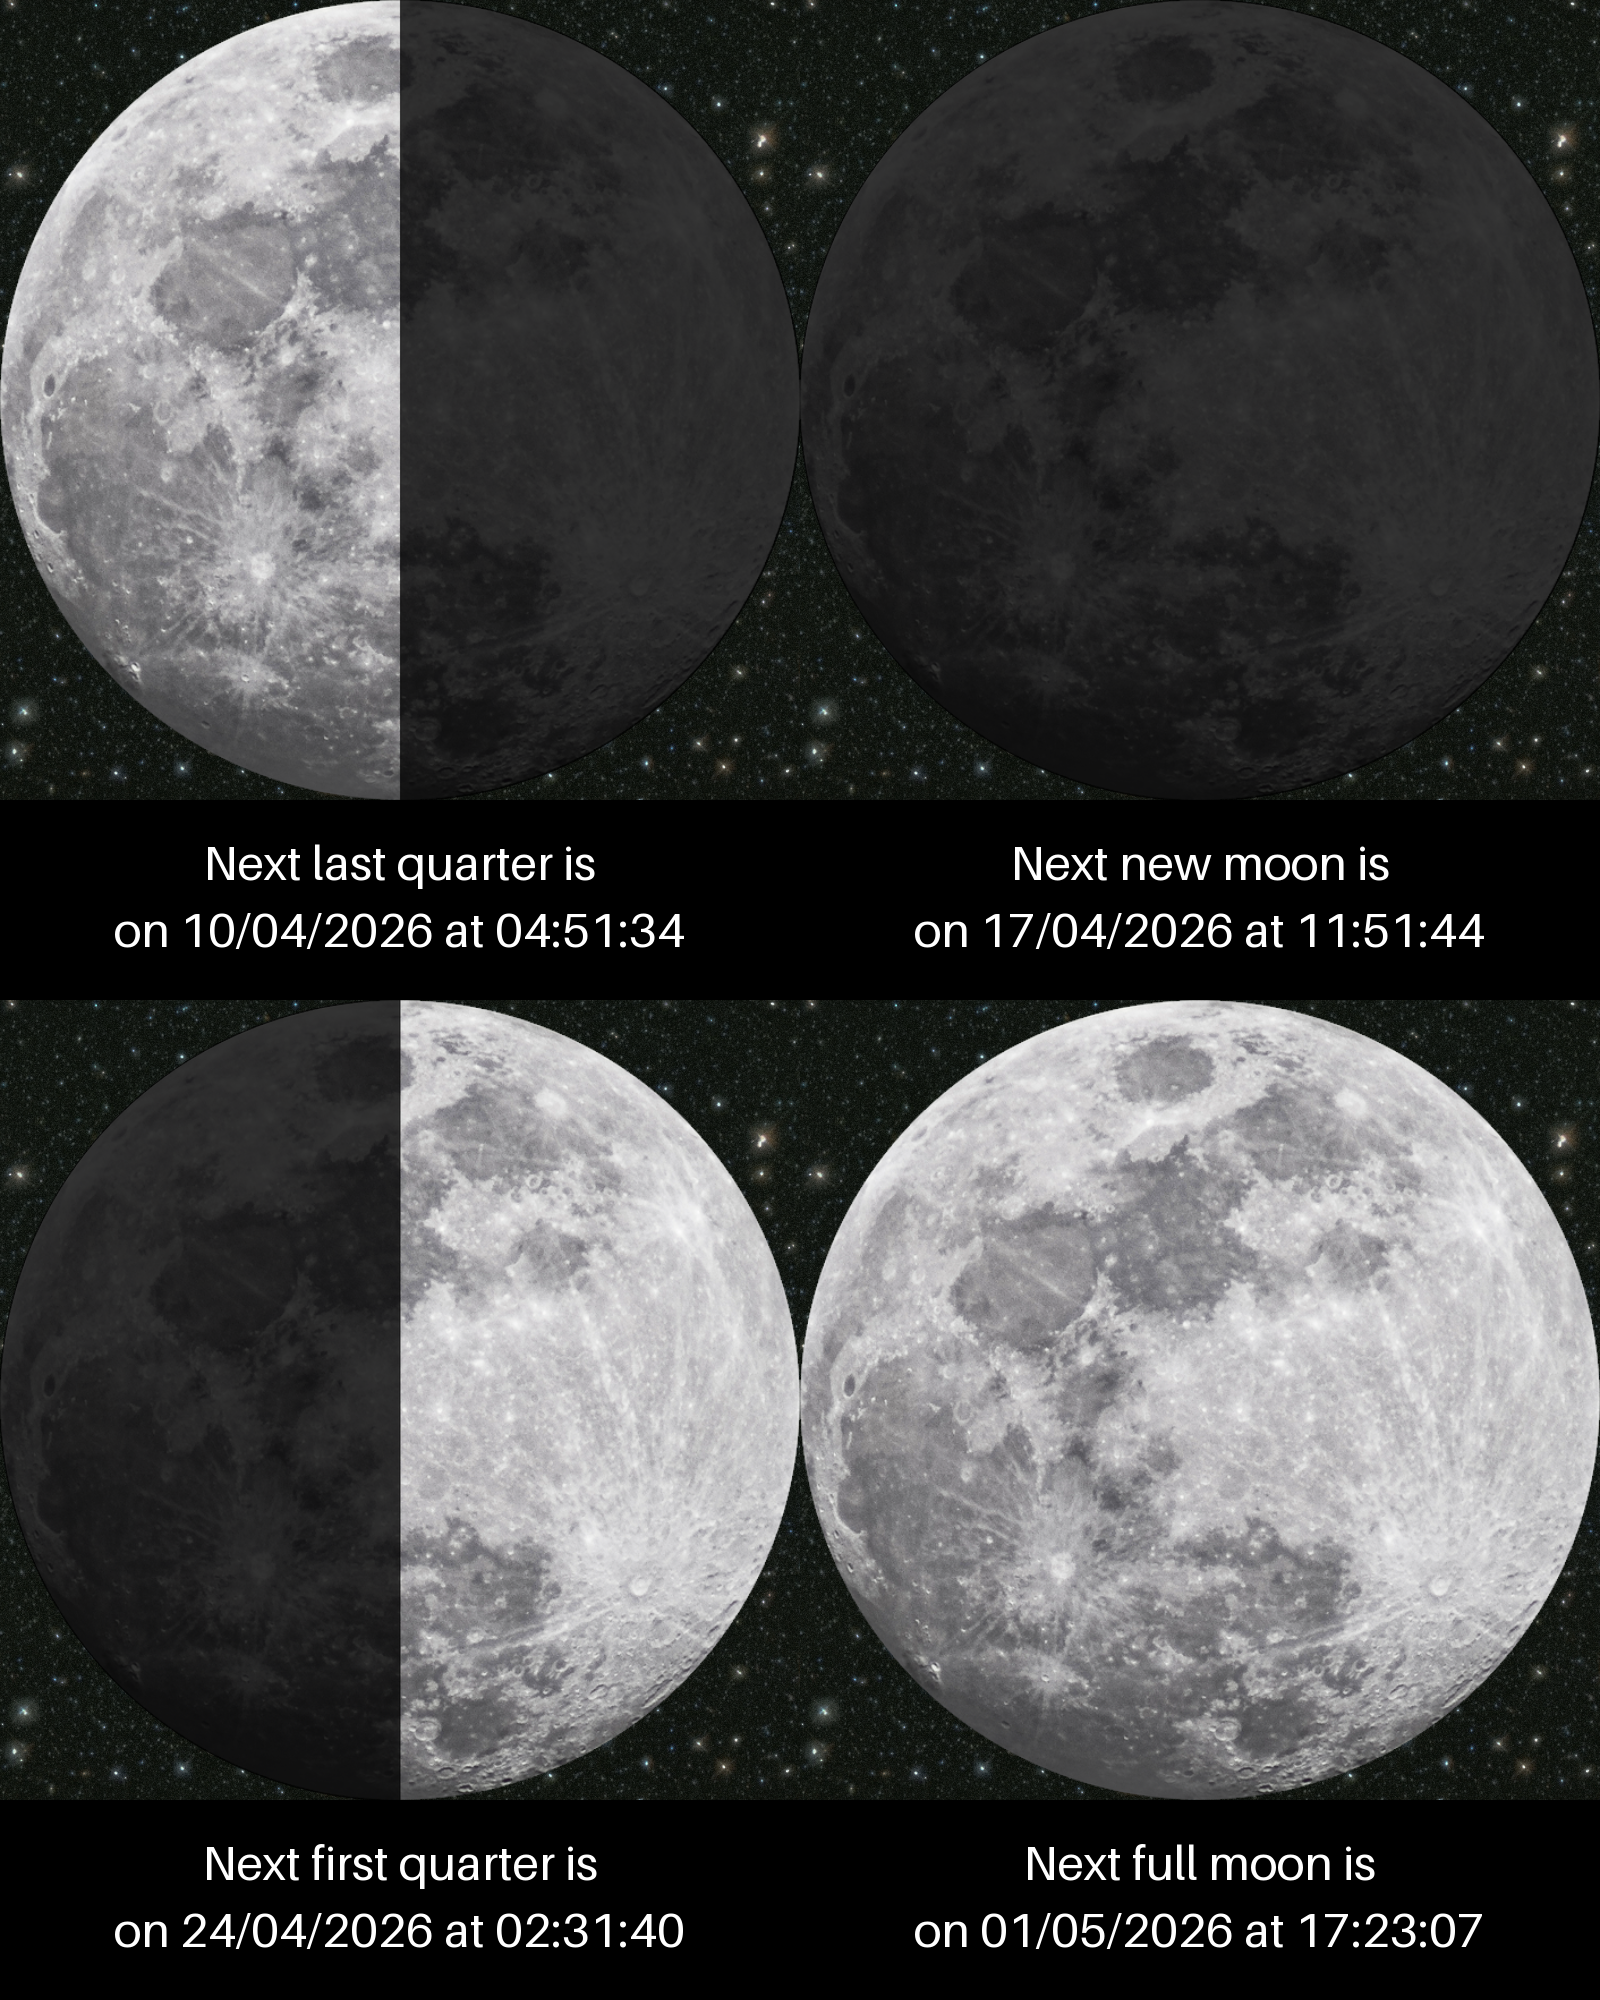
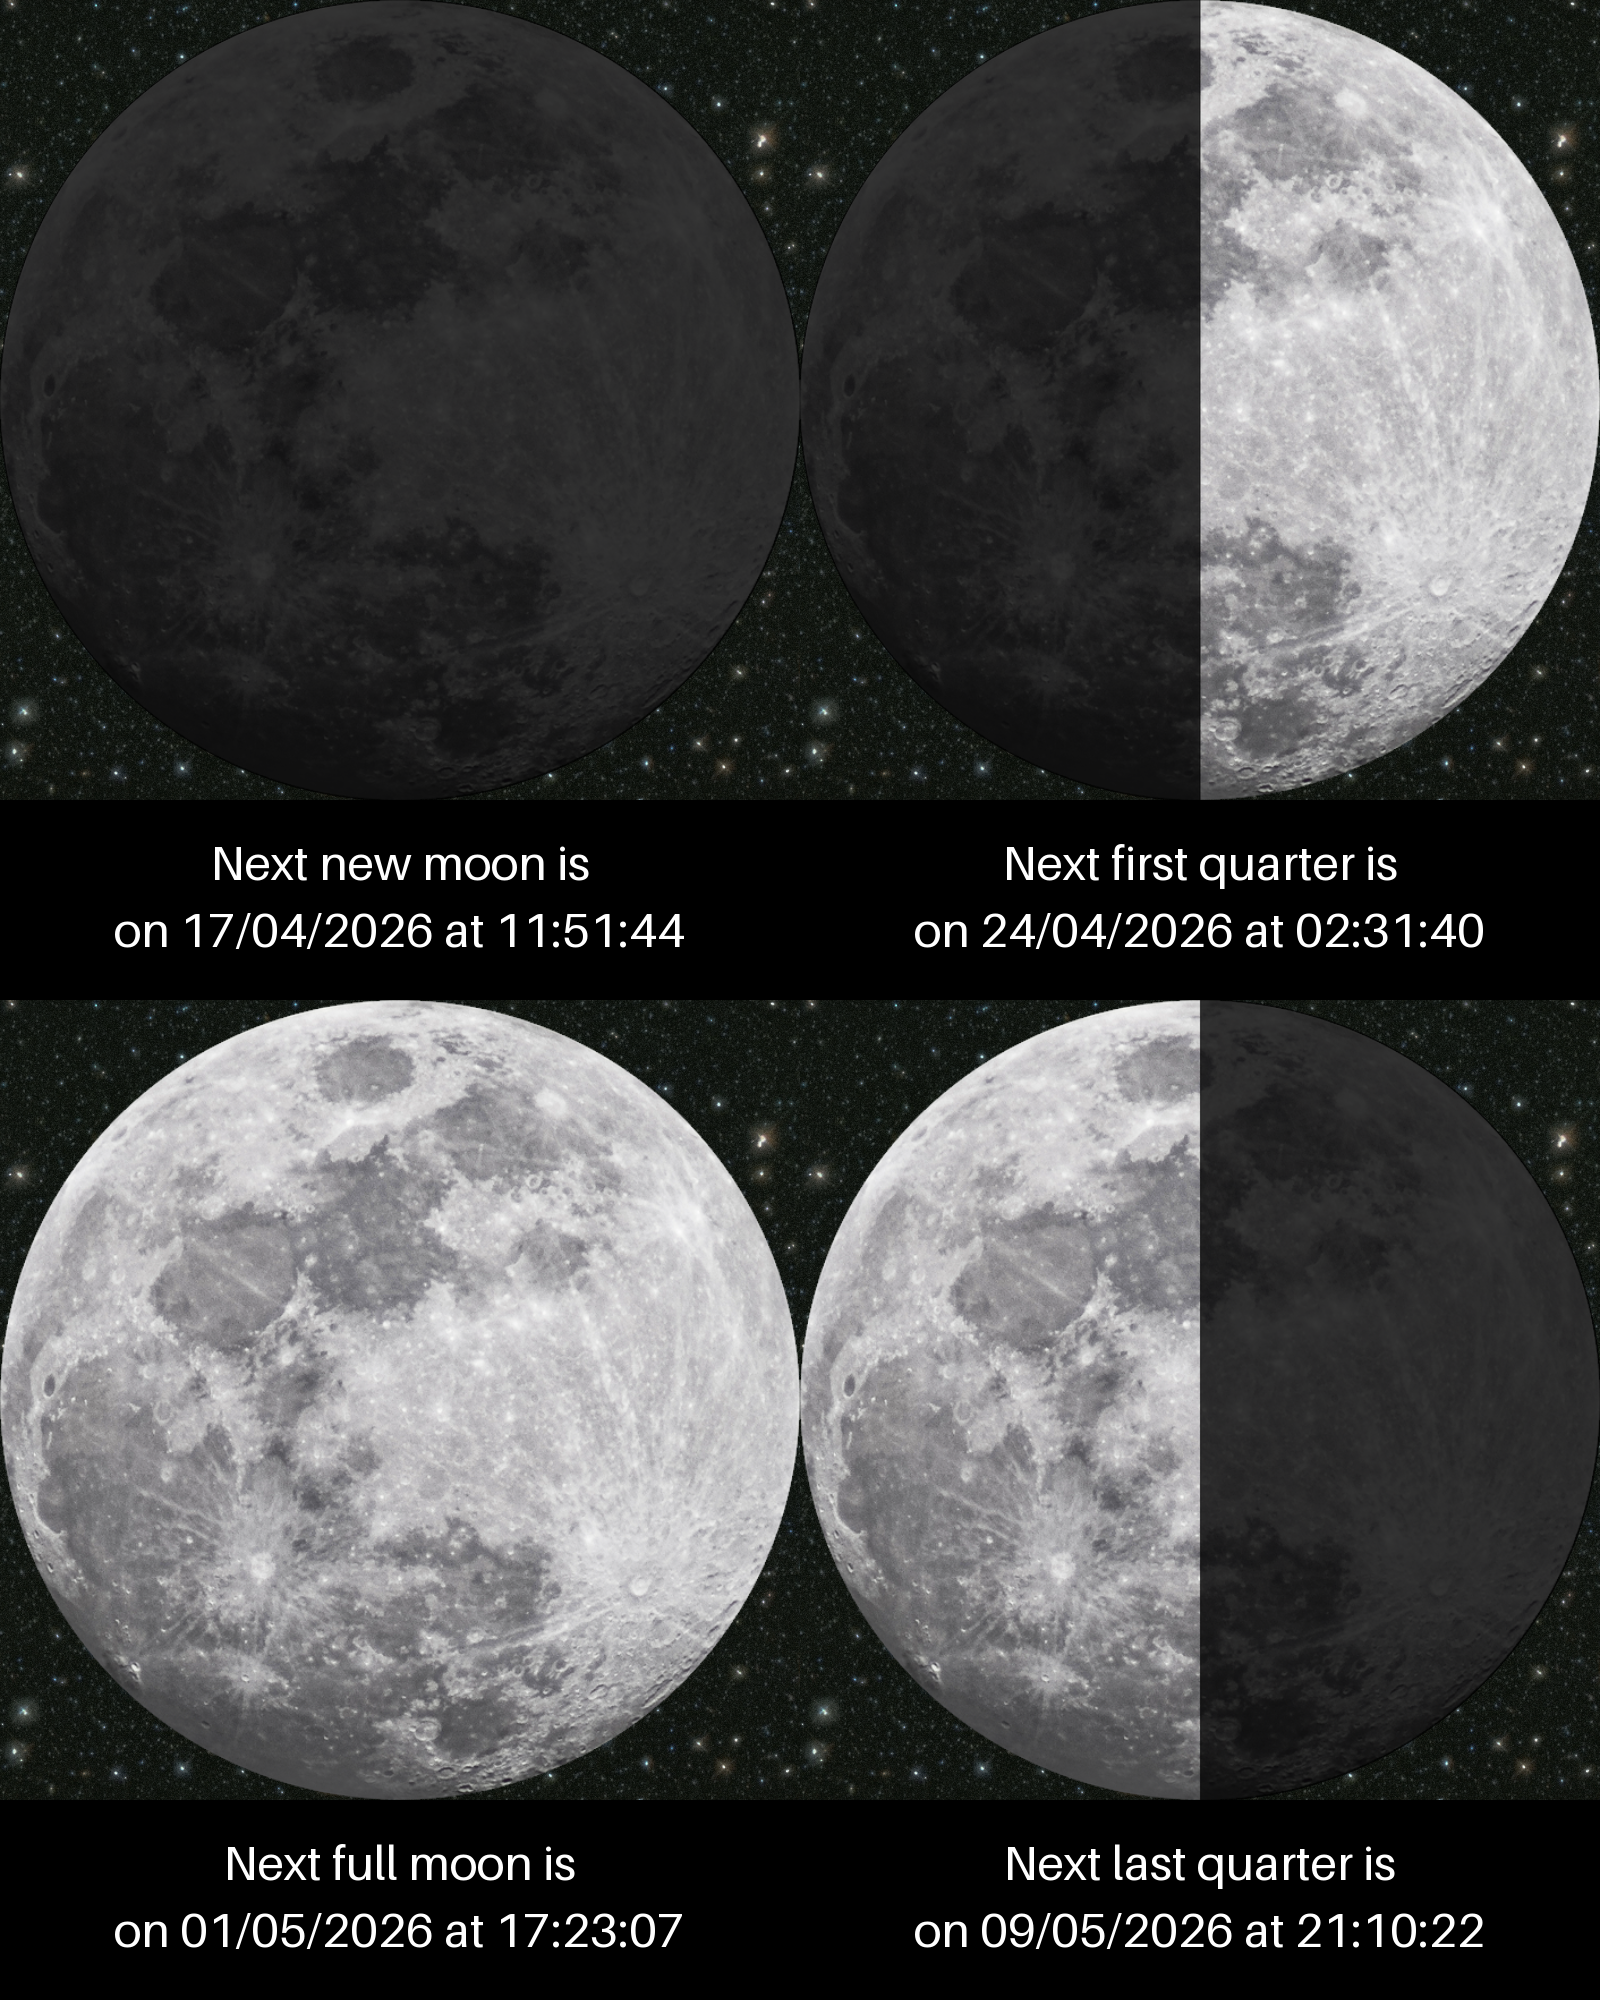
Update gallery image from workflow

diff --git a/README.md b/README.md
@@ -1,4 +1,4 @@
-### Current Moon Phase: 🌗 Last Quarter 50.22%
+### Current Moon Phase: 🌗 Last Quarter 49.50%
 ![Moon Phase](moonphase.png)
 ### Next Key Phases
 ![Gallery](gallery.png)
